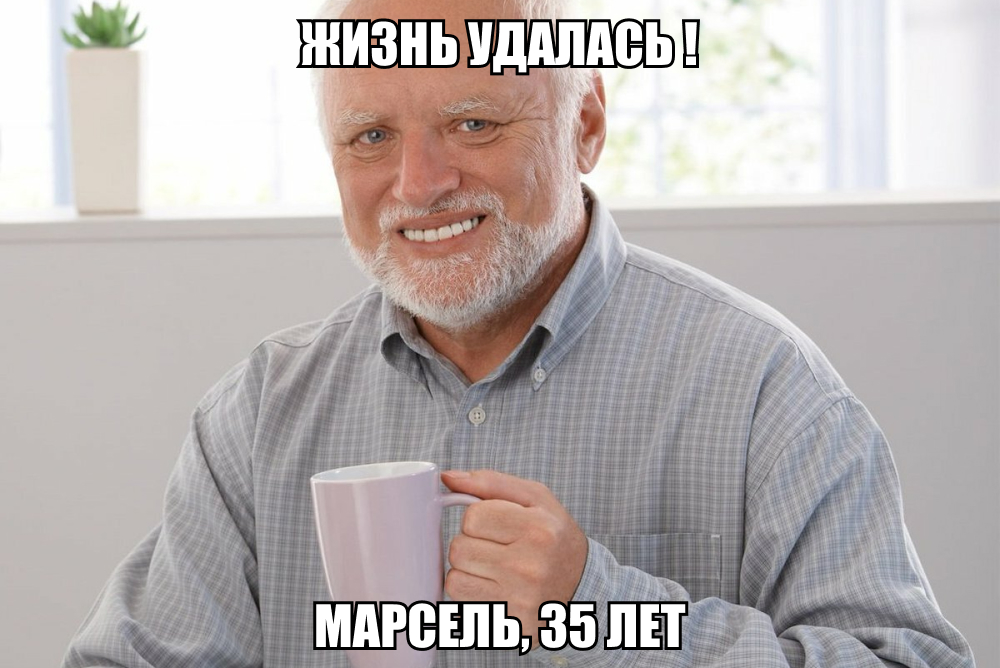
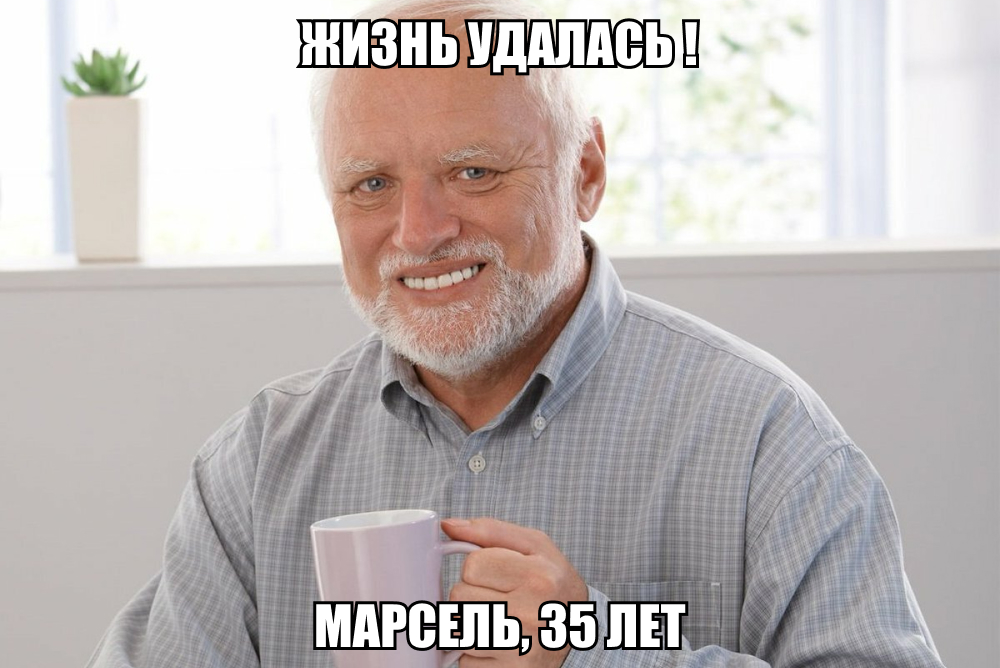
feat: add new memes (Wed, May 18, 2022 04:46:37 AM)

diff --git a/cssMemSlider/style.css b/cssMemSlider/style.css
@@ -34,59 +34,67 @@ main {
 }
 
 #radio_2:checked ~ .slider__slides {
-  transform: translateX(-12.5%);
+  transform: translateX(-11.1%);
 }
 
 #radio_3:checked ~ .slider__slides {
-  transform: translateX(-25%);
+  transform: translateX(-22.2%);
 }
 
 #radio_4:checked ~ .slider__slides {
-  transform: translateX(-37.5%);
+  transform: translateX(-33.3%);
 }
 
 #radio_5:checked ~ .slider__slides {
-  transform: translateX(-50%);
+  transform: translateX(-44.4%);
 }
 
 #radio_6:checked ~ .slider__slides {
-  transform: translateX(-62.5%);
+  transform: translateX(-55.5%);
 }
 
 #radio_7:checked ~ .slider__slides {
-  transform: translateX(-75%);
+  transform: translateX(-66.6%);
 }
 
 #radio_8:checked ~ .slider__slides {
-  transform: translateX(-87.5%);
+  transform: translateX(-77.7%);
+}
+
+#radio_9:checked ~ .slider__slides {
+  transform: translateX(-88.8%);
 }
 
 #radio_2:checked ~ .slider__bottom .slider__textList {
-  transform: translateY(-12.5%);
+  transform: translateY(-11.1%);
 }
 
 #radio_3:checked ~ .slider__bottom .slider__textList {
-  transform: translateY(-25%);
+  transform: translateY(-22.2%);
 }
 
 #radio_4:checked ~ .slider__bottom .slider__textList {
-  transform: translateY(-37.5%);
+  transform: translateY(-33.3%);
 }
 
 #radio_5:checked ~ .slider__bottom .slider__textList {
-  transform: translateY(-50%);
+  transform: translateY(-44.4%);
 }
 
 #radio_6:checked ~ .slider__bottom .slider__textList {
-  transform: translateY(-62.5%);
+  transform: translateY(-55.5%);
 }
 
 #radio_7:checked ~ .slider__bottom .slider__textList {
-  transform: translateY(-75%);
+  transform: translateY(-66.6%);
 }
 
 #radio_8:checked ~ .slider__bottom .slider__textList {
-  transform: translateY(-87.5%);
+  transform: translateY(-77.7%);
+}
+
+#radio_9:checked ~ .slider__bottom .slider__textList {
+  transform: translateY(-88.8%);
 }
 
 .slider {
@@ -106,7 +114,7 @@ main {
 
 .slider__slides {
   display: flex;
-  width: 800%;
+  width: 900%;
   transition: transform 0.5s;
 }
 
@@ -115,7 +123,7 @@ main {
   justify-content: center;
   align-items: center;
   flex-shrink: 0;
-  width: 12.5%;
+  width: 11.1%;
   padding: 1rem;
   padding-bottom: 0;
 }
@@ -201,7 +209,8 @@ main {
 #radio_5:checked ~ .slider__bottom .slider__bullet:nth-child(5),
 #radio_6:checked ~ .slider__bottom .slider__bullet:nth-child(6),
 #radio_7:checked ~ .slider__bottom .slider__bullet:nth-child(7),
-#radio_8:checked ~ .slider__bottom .slider__bullet:nth-child(8) {
+#radio_8:checked ~ .slider__bottom .slider__bullet:nth-child(8),
+#radio_9:checked ~ .slider__bottom .slider__bullet:nth-child(9) {
   opacity: 0;
 }
 
@@ -231,6 +240,10 @@ main {
 
 #radio_8:checked ~ .slider__bottom .slider__bullets {
   background-position-x: calc(var(--step) * 7);
+}
+
+#radio_9:checked ~ .slider__bottom .slider__bullets {
+  background-position-x: calc(var(--step) * 8);
 }
 
 .slider__caption {

diff --git a/cssMemSlider/index.html b/cssMemSlider/index.html
@@ -20,6 +20,7 @@
         <input type="radio" name="slide" id="radio_6" />
         <input type="radio" name="slide" id="radio_7" />
         <input type="radio" name="slide" id="radio_8" />
+        <input type="radio" name="slide" id="radio_9" />
         <div class="slider__slides">
           <div class="slider__slide">
             <img src="images/1.jpg" alt="mem" />
@@ -34,13 +35,16 @@
             <img src="images/4.jpg" alt="mem" />
           </div>
           <div class="slider__slide">
+            <img src="images/9.jpg" alt="mem" />
+          </div>
+          <div class="slider__slide">
             <img src="images/5.jpg" alt="mem" />
           </div>
           <div class="slider__slide">
             <img src="images/6.jpg" alt="mem" />
           </div>
           <div class="slider__slide">
-            <img src="images/7.jpg" alt="mem" />
+            <img src="images/10.jpg" alt="mem" />
           </div>
           <div class="slider__slide">
             <img src="images/8.jpg" alt="mem" />
@@ -66,6 +70,10 @@
                 <p>Если ты бесполезный</p>
               </div>
               <div class="slider__text slider__text_4">
+                <p>Работаю довольно редко</p>
+                <p>А недовольно - каждый день</p>
+              </div>
+              <div class="slider__text slider__text_4">
                 <p>Классно делать слайдер</p>
                 <p>Без позиционирования и фиксированных px</p>
               </div>
@@ -74,8 +82,8 @@
                 <p>Марсель, 35 лет</p>
               </div>
               <div class="slider__text slider__text_4">
-                <p>Еще совсем чуть-чуть и мы станем</p>
-                <p>Младшими разработчиками</p>
+                <p>Не так страшен чёрт, как его</p>
+                <p>Младший разработчик</p>
               </div>
               <div class="slider__text slider__text_4">
                 <p>Хорошие мемы подобрал</p>
@@ -113,6 +121,10 @@
                 <li></li></ul
             ></label>
             <label class="slider__bullet" for="radio_8"
+              ><ul>
+                <li></li></ul
+            ></label>
+            <label class="slider__bullet" for="radio_9"
               ><ul>
                 <li></li></ul
             ></label>
